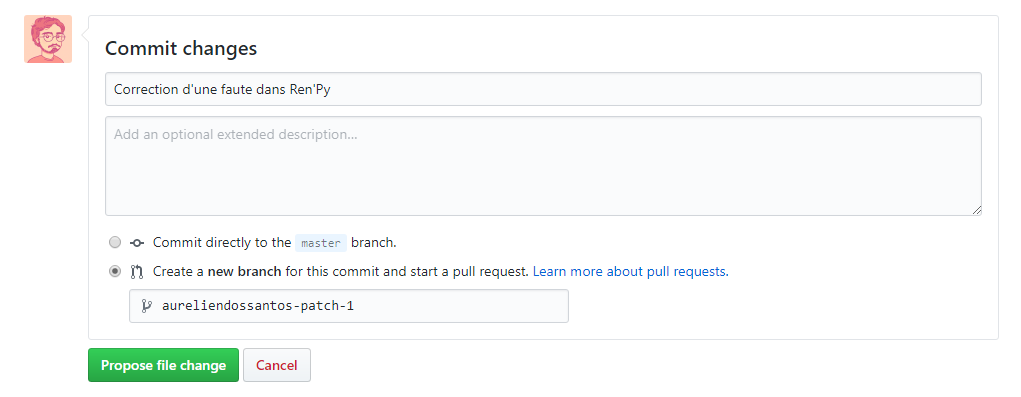
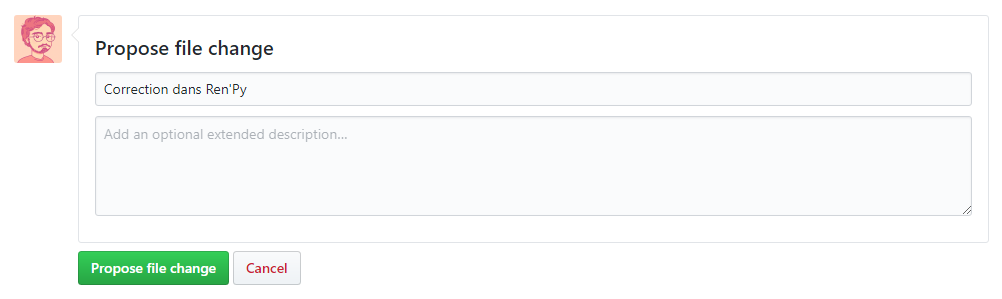
Amélioration de Première contribution

diff --git a/content/courses/contribuer/02-comment-contribuer/01-une-premiere-contribution.md b/content/courses/contribuer/02-comment-contribuer/01-une-premiere-contribution.md
@@ -10,52 +10,57 @@ Dans cette partie, je vais vous montrer comment vous préparer pour travailler e
 
 GitHub est un site qui permet de partager du code et de le modifier à plusieurs. C'est là-bas que l'on rend accessible le code source du site, et donc le contenu des pages.
 
-Un compte vous permettra de contribuer : toutes vos modifications seront créditées avec votre nom et image de profil. Vous pouvez [créer un compte ici](https://github.com/join). Pensez à valider votre adresse email à la fin de l'inscription !
+Un compte vous permettra de contribuer : toutes vos modifications seront créditées avec votre nom et image de profil. Vous pouvez [créer un compte ici](https://github.com/join). Pensez à valider votre adresse email à la fin de l'inscription !
 
 ### Petite visite du repo
 
-Le code source du site se trouve à cette adresse :
+Le code source du site se trouve à cette adresse :
 
 https://github.com/gamedevalliance/fairedesjeux.fr
 
-C'est un *dépôt*, ou *repository* en anglais. Entre nous, on appelle simplement ça le repo. Il contient tout le code qui permet de créer le site. Si vous êtes là pour écrire du contenu, vous pouvez visiter le dossier `content` et vous verrez que tout y est rangé clairement : chaque formation possède son dossier et chaque chapitre a son propre sous-dossier. Vous pouvez ouvrir des pages si vous êtes curieux, mais je vous montrerai comment les modifier dans la partie suivante.
+C'est un *dépôt*, ou *repository* en anglais. Entre nous, on appelle simplement ça le repo. Il contient tout le code qui permet de créer le site. Si vous êtes là pour écrire du contenu, vous pouvez visiter le dossier `content` et vous verrez que tout y est rangé clairement : chaque formation possède son dossier et chaque chapitre a son propre sous-dossier. Vous pouvez ouvrir des pages si vous êtes curieux, mais je vous montrerai comment les modifier dans la partie suivante.
 
-Afin de tous nous coordonner et voir en un clin d'oeil les tâches à réaliser, il existe un système d'issues :
+Afin de tous nous coordonner et voir en un clin d'oeil les tâches à réaliser, il existe un système d'issues :
 
-https://github.com/gamedevalliance/fairedesjeux.fr/issues
+![Issue sur GitHub](./issue.png)
+*https://github.com/gamedevalliance/fairedesjeux.fr/issues*
 
 Une issue permet de consulter une tâche à réaliser et d'écrire des commentaires, comme un mini-forum. Vous pouvez voir en un clin d'oeil le domaine concerné par l'issue, les personnes assignées à la tâche... Lorsque la tâche est terminée, on ferme l'issue, et elle est cachée de la liste principale.
 
-![Issue sur GitHub](./issue.png)
-
 Si vous souhaitez émettre une suggestion, annoncer que vous travaillez sur une nouvelle formation, ou encore rapporter un bug du site... Vous pouvez créer une nouvelle issue, ou bien en parler sur Discord (nous avons un salon dédié aux projets GitHub).
 
-Les issues sont également organisées dans des projets :
+Les issues sont également organisées dans des projets :
 
 https://github.com/gamedevalliance/fairedesjeux.fr/projects
 
 Ainsi, si c'est la rédaction qui vous intéresse avant tout, vous pouvez entrer dans le projet pour avoir une vue d'ensemble de toute l'activité.
 
-### Créer un fork
+### Modifier rapidement une page
 
-Le repo original du site s'appelle `gamedevalliance/fairedesjeux.fr`. Dès qu'il est modifié, le site est automatiquement actualisé pour afficher les nouveautés. C'est pourquoi il est protégé : seule l'équipe de modération peut écrire à l'intérieur.
+Imaginons que vous ayez repéré une faute dans une page de la formation Ren'Py, et que vous souhaitez la corriger. Cliquez sur "Modifier cette page" en haut à droite du site. Vous serez renvoyé à l'adresse de la page en question sur GitHub.
 
-Pour travailler sur le site, vous devez copier le repo sur votre profil : on appelle ça un fork. Sur la page du repo, cliquez sur "Fork" en haut à droite.
+Le repo original du site s'appelle `gamedevalliance/fairedesjeux.fr`. Dès qu'il est modifié, le site est automatiquement actualisé pour afficher les nouveautés. C'est pourquoi il est protégé : seule l'équipe de modération peut écrire à l'intérieur.
 
-Votre fork s'appellera `votre-pseudo/fairedesjeux.fr`. Dans ce fork, vous avez tous les droits en écriture : vous pouvez modifier des pages directement sur votre navigateur, et même le télécharger pour travailler dans votre éditeur favori, mais nous verrons cela dans la section suivante.
+Ainsi, pour travailler sur le site, vous devez copier le repo sur votre profil : on appelle ça un fork. La première fois que vous souhaitez modifier une page, GitHub vous propose de créer un fork en un clic.
 
-Vous pouvez retrouver votre fork facilement depuis la page d'accueil de GitHub, ou depuis votre profil.
+![](./bouton-creer-fork.png)
+*Une explication détaillée des forks est également disponible.*
 
-### Modifier une page dans votre navigateur
+La page suivante vous permet d'éditer le fichier, et vous confirme que vous vous situez dans une nouvelle branche de votre propre fork.
 
-Imaginons que vous avez repéré une faute dans une page de la formation Ren'Py, et que vous souhaitez la corriger. Sur la page de votre fork, naviguez jusqu'au dossier `content/courses/renpy` et ouvrez le fichier `.md` correspondant à la page. Sur la droite, vous trouverez une icône de crayon pour éditer le fichier.
+![](./message-fork-automatique.png)
 
-![Bouton Edit this page sur GitHub](./edit-this-file.png)
+Ecrivez votre modification, puis donnez un titre descriptif à votre commit (votre changement).
 
-Ecrivez vos changements, puis enregistrez-les plus bas. Donnez un nom descriptif à votre commit, et cochez l'option qui permet de créer une nouvelle branche, pour créer une pull request.
+![](./propose-file-changes.png)
+*Un commit est un changement. Avec git, on peut consulter l'historique entier des commits et revenir dans le temps si nécessaire.*
 
-![Enregistrement du commit](./propose-file-changes.png)
+L'écran suivant vous permettra de visualiser votre pull request et de la confirmer. Une pull request, c'est une demande pour fusionner les nouveautés de votre fork avec le repo originel. Dès que vous envoyez une pull request, elle est publique et tout le monde pourra la consulter sur GitHub, même si elle n'est pas encore validée. Assurez-vous donc de bien lire la page avant de confirmer.
 
-L'écran suivant vous permettra de visualiser votre pull request et de la confirmer. Une pull request, c'est une demande pour fusionner les nouveautés de votre fork avec le repo originel (`gamedevalliance/fairedesjeux.fr`). Dès que vous envoyez une pull request, elle est publique et tout le monde pourra la consulter sur GitHub, même si elle n'est pas encore validée. Assurez-vous donc de bien lire la page avant de confirmer.
+Désormais, lorsque vous cliquerez sur "Modifier cette page", l'éditeur de texte s'affichera directement. Une nouvelle branche sera créée dans votre fork, pour que vous puissiez éditer le fichier et envoyer une pull request de cette branche. Une branche permet de travailler sur un aspect précis de votre repo sans affecter le reste.
 
-> Si vous n'avez pas créé de fork, en cliquant sur le crayon depuis une page de `gamedevalliance/fairedesjeux.fr`, un message apparaît pour vous informer qu'un fork est automatiquement créé dans lequel vous pouvez écrire. Lorsque vous enregistrez votre changement, vous pouvez directement créer une pull request. Par la suite, à chaque fois que vous cliquerez sur le crayon d'une page de `gamedevalliance/fairedesjeux.fr`, une nouvelle branche sera créée dans votre fork, pour faire une pull request de cette branche rapidement.
+### A propos des forks
+
+Si vous avez déjà modifié une page, un fork a été créé sur votre profil. Sinon, vous pouvez en créer un manuellement. Sur la [page du repo](https://github.com/gamedevalliance/fairedesjeux.fr) `gamedevalliance/fairedesjeux.fr`, cliquez sur "Fork" en haut à droite.
+
+Votre fork s'appelle `votre-pseudo/fairedesjeux.fr`. Vous pouvez le retrouver facilement depuis la page d'accueil de GitHub, ou depuis votre profil. Dans ce fork, vous avez tous les droits en écriture : vous pouvez modifier des pages sur votre navigateur, et même le télécharger pour travailler dans votre éditeur favori. Nous verrons cela dans la section suivante !
